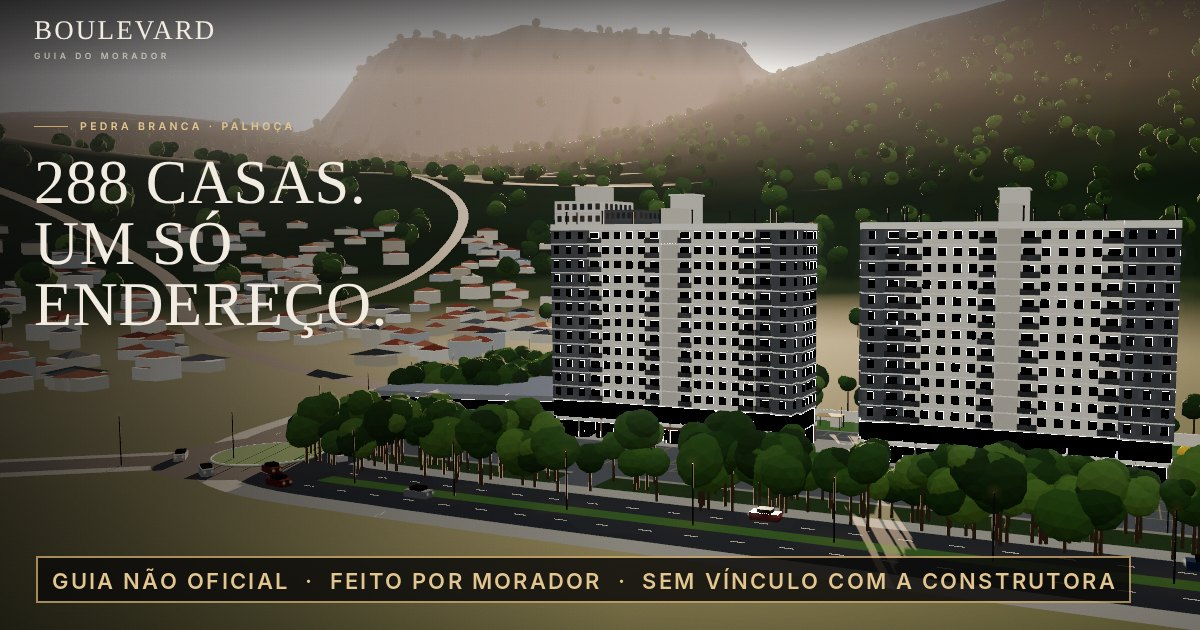
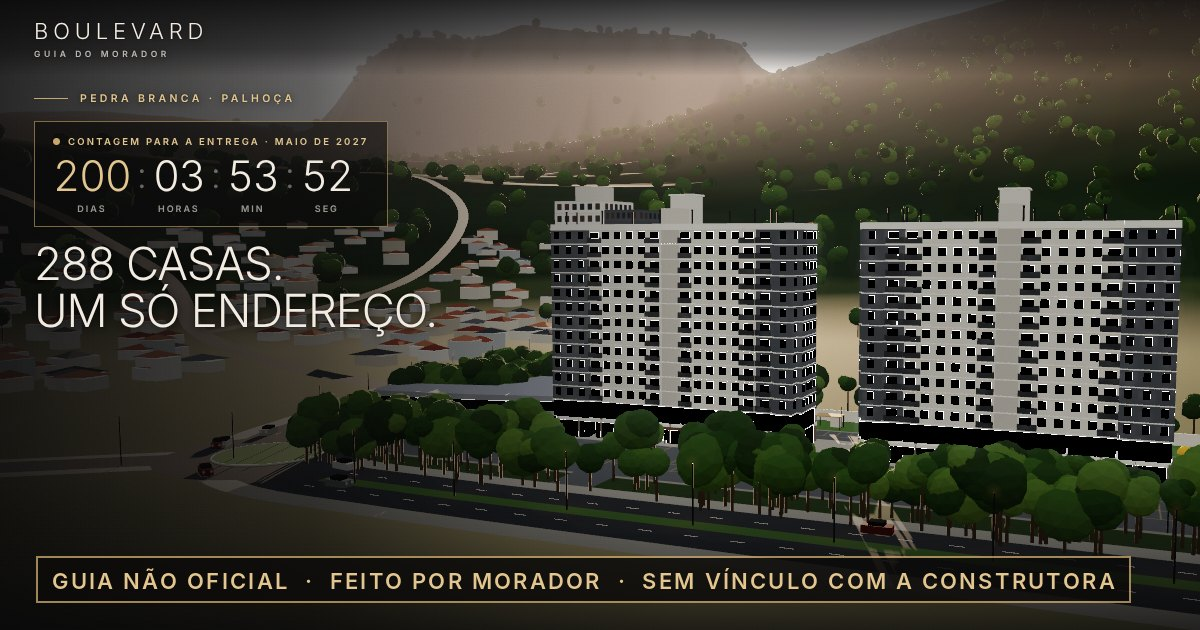
Boulevard: tipografia sem serifa e carros mais fluidos
Claude-Session: https://claude.ai/code/session_011qGwq6SJwumqZpshTh6U6o

diff --git a/public/boulevard/index.html b/public/boulevard/index.html
@@ -6,7 +6,7 @@
 <meta name="description" content="Guia não oficial, feito por um morador, sem vínculo com a construtora. Ache seu apartamento, veja a planta, o sol nas fachadas e o andamento da obra.">
 <meta property="og:title" content="Boulevard em 3D · guia não oficial feito por morador">
 <meta property="og:description" content="Feito por um morador, sem vínculo com a construtora. Ache o seu apê, veja a planta, o sol nas fachadas e a contagem para a entrega.">
-<meta property="og:image" content="https://aue.productions/boulevard/og.jpg?v=2">
+<meta property="og:image" content="https://aue.productions/boulevard/og.jpg?v=3">
 <meta property="og:image:width" content="1200">
 <meta property="og:image:height" content="630">
 <meta property="og:url" content="https://aue.productions/boulevard/">
@@ -15,14 +15,14 @@
 <title>Boulevard em 3D</title>
 <link rel="preconnect" href="https://fonts.googleapis.com">
 <link rel="preconnect" href="https://fonts.gstatic.com" crossorigin>
-<link href="https://fonts.googleapis.com/css2?family=Cormorant+Garamond:wght@400;500;600&family=Manrope:wght@400;500;600;700&display=swap" rel="stylesheet">
+<link href="https://fonts.googleapis.com/css2?family=Manrope:wght@200;300;400;500;600;700&display=swap" rel="stylesheet">
 <style>
 :root{
   --bg:#0d0f12; --ink:#F1EBE1; --muted:rgba(241,235,225,.62); --faint:rgba(241,235,225,.38); --line:rgba(241,235,225,.16);
   --glass:rgba(16,15,14,.58); --glass-2:rgba(24,22,20,.78); --gold:#C9A66B; --gold-2:#E2C58F; --gold-ink:#1a140c;
   --paper-a:#3a332b; --paper-b:#17140f; --plan:rgba(239,230,214,.86); --plan-2:rgba(239,230,214,.42);
   --t-laranja:#D49A4C; --t-verde:#86A77F; --t-vermelho:#C97A6C; --t-azul:#8399BC;
-  --f-display:'Cormorant Garamond',Georgia,serif; --f-ui:'Manrope',system-ui,sans-serif;
+  --f-display:'Manrope',system-ui,sans-serif; --f-ui:'Manrope',system-ui,sans-serif;
 }
 @media (prefers-color-scheme:dark){:root:not([data-theme="light"]){--bg:#0d0f12}}
 :root[data-theme="dark"]{--bg:#0d0f12}
@@ -338,6 +338,18 @@ body.explore #hint,body.detail #hint,body.cutting #hint{opacity:0!important}
 @media (min-width:901px){#hero{top:92px;max-width:540px}#hero h1{font-size:clamp(34px,3.8vw,50px)}}
 @media (min-width:901px) and (max-height:900px){#hero p{display:none}}
 @media (min-width:901px) and (max-height:700px){.cdn{display:none}.cdrow b{font-size:42px}.cdrow .sep{font-size:36px}}
+
+/* tipografia sem serifa: títulos e números em Manrope leve */
+.brand b{font-weight:300;letter-spacing:.22em;font-size:22px}
+#hero h1{font-weight:300;letter-spacing:-.025em;line-height:1.02}
+.ph h2,.dh h2{font-weight:300;letter-spacing:-.02em}
+.dh h2{font-size:56px}
+.big b,.cards b,.fc b,.prog-h b,.lvl b,.cb-t b,#tval{font-weight:300;letter-spacing:-.01em}
+.cards b,.fc b{font-size:20px}
+#tval{font-size:15px;font-weight:400}
+#loading b{font-weight:300;letter-spacing:.3em}
+.cdrow b,.cd b{font-weight:300;letter-spacing:-.03em}
+@media (max-width:900px){.brand b{font-size:18px}.dh h2{font-size:42px}}
 </style>
 </head>
 <body>
@@ -1137,7 +1149,7 @@ function planSVG(type,flipped){
       if(bk==='N')s+=`<line x1="${a+6}" y1="${b+t2}" x2="${c-6}" y2="${b+t2}"/>`;}
   });
   s+='</g></g>';
-  s+=p.labels.map(l=>{const x=flipped?x0+x1-l[2]:l[2];return `<text x="${x}" y="${l[3]}" text-anchor="middle" font-family="Manrope,sans-serif" font-size="19" font-weight="700" letter-spacing="3" fill="rgba(239,230,214,.82)">${l[0].toUpperCase()}</text><text x="${x}" y="${l[3]+30}" text-anchor="middle" font-family="Cormorant Garamond,serif" font-size="30" fill="rgba(226,197,143,.95)">${l[1]} m²</text>`;}).join('');
+  s+=p.labels.map(l=>{const x=flipped?x0+x1-l[2]:l[2];return `<text x="${x}" y="${l[3]}" text-anchor="middle" font-family="Manrope,sans-serif" font-size="19" font-weight="700" letter-spacing="3" fill="rgba(239,230,214,.82)">${l[0].toUpperCase()}</text><text x="${x}" y="${l[3]+30}" text-anchor="middle" font-family="Manrope,sans-serif" font-weight="300" font-size="25" fill="rgba(226,197,143,.95)">${l[1]} m²</text>`;}).join('');
   const m=100/p.cmpx; s+=`<g fill="rgba(239,230,214,.7)"><rect x="${x0}" y="${y1+pad+6}" width="${m}" height="3"/><rect x="${x0}" y="${y1+pad}" width="2" height="15"/><rect x="${x0+m-2}" y="${y1+pad}" width="2" height="15"/><text x="${x0+m+12}" y="${y1+pad+14}" font-family="Manrope,sans-serif" font-size="16" font-weight="700" letter-spacing="2">1 M</text></g>`;
   return s+'</svg>';
 }
@@ -1293,7 +1305,7 @@ document.addEventListener('visibilitychange',()=>{if(!document.hidden){last=perf
 function loop(now){
   requestAnimationFrame(loop);
   if(document.hidden) return;
-  if(window.__lastAct>lastAct)lastAct=window.__lastAct; const busy=tw||now-lastAct<2500; const minGap=busy?0:(LITE?110:50);
+  if(window.__lastAct>lastAct)lastAct=window.__lastAct; const busy=tw||now-lastAct<2500; const minGap=busy?0:(LITE?32:0);
   if(now-lastDraw<minGap) return; lastDraw=now;
   const dt=Math.min(.12,(now-last)/1000); last=now;
   if(tw){const k=Math.min(1,(now-tw.s)/tw.d),e=ease(k);camera.position.lerpVectors(tw.p0,tw.p1,e);controls.target.lerpVectors(tw.t0,tw.t1,e);if(k>=1)tw=null;}

diff --git a/public/boulevard/b112/index.html b/public/boulevard/b112/index.html
@@ -6,7 +6,7 @@
 <meta name="robots" content="noindex">
 <meta property="og:title" content="Apto B112 decorado · Boulevard em 3D (guia não oficial)">
 <meta property="og:description" content="Guia feito por um morador, sem vínculo com a construtora.">
-<meta property="og:image" content="https://aue.productions/boulevard/og.jpg?v=2">
+<meta property="og:image" content="https://aue.productions/boulevard/og.jpg?v=3">
 </head>
 <body>
 <title>Apto B112 · Boulevard em 3D</title>
